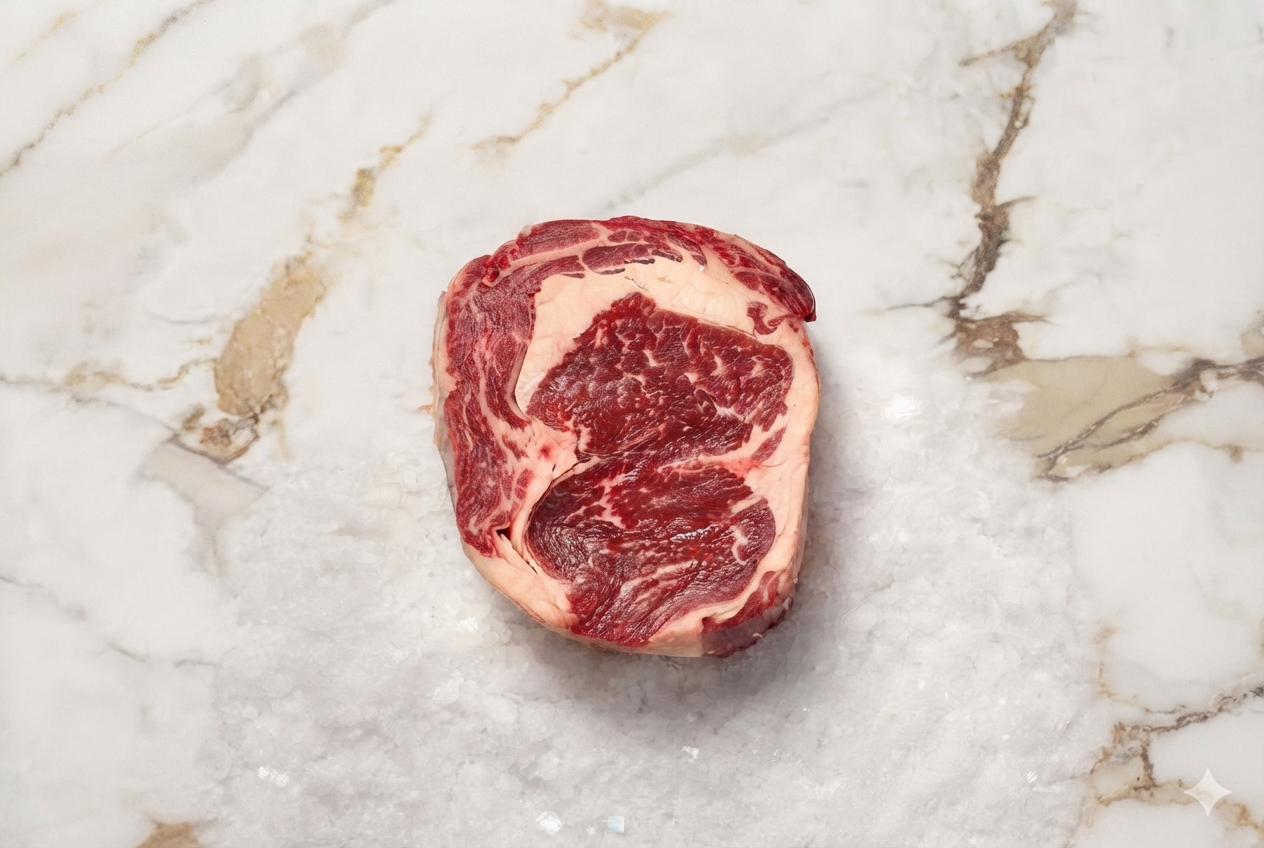
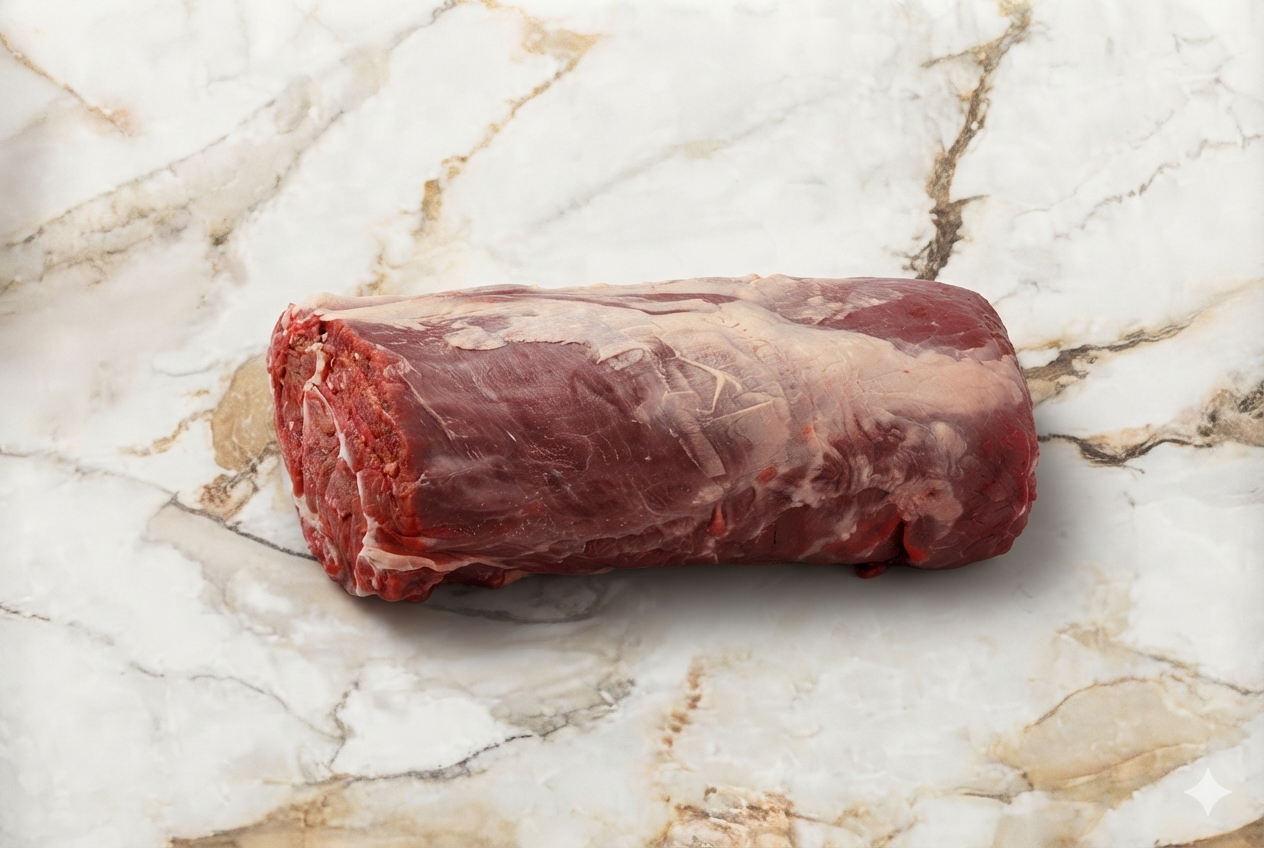
cargados productos con precio, modificamos unidad kilo para productoo

diff --git a/js/app.js b/js/app.js
@@ -49,6 +49,50 @@
       return productos.filter((p) => normalizar(p.nombre).includes(f));
     }
   
+    // Obtiene la cantidad en el carrito de un producto por id
+    function cantidadEnCarrito(id) {
+      const item = Cart.obtenerItems().find((i) => i.id === id);
+      return item ? item.cantidad : 0;
+    }
+  
+    // Genera el HTML del control de cantidad (botón agregar o selector − N +)
+    function htmlControlCantidad(prod) {
+      const cantidad = cantidadEnCarrito(prod.id);
+  
+      if (cantidad === 0) {
+        return `
+          <button
+            class="btn-primario w-full mt-auto"
+            data-agregar="${prod.id}"
+          >
+            Agregar al carrito
+          </button>
+        `;
+      }
+  
+      return `
+        <div
+          class="w-full mt-auto rounded-lg flex items-center justify-between px-2"
+          style="background-color: var(--color-petroleo); height: 46px;"
+          data-control="${prod.id}"
+        >
+          <button
+            class="flex items-center justify-center w-9 h-9 rounded-md text-white font-bold text-xl"
+            style="background-color: rgba(255,255,255,0.15);"
+            data-restar-tarjeta="${prod.id}"
+            aria-label="Restar unidad"
+          >−</button>
+          <span class="text-white font-bold text-lg" data-cantidad-tarjeta="${prod.id}">${cantidad}</span>
+          <button
+            class="flex items-center justify-center w-9 h-9 rounded-md text-white font-bold text-xl"
+            style="background-color: rgba(255,255,255,0.15);"
+            data-sumar-tarjeta="${prod.id}"
+            aria-label="Sumar unidad"
+          >+</button>
+        </div>
+      `;
+    }
+  
     // Renderizar las tarjetas de producto
     function renderizarCatalogo() {
       const contenedor = document.getElementById('catalogo');
@@ -97,19 +141,16 @@
               </p>
             </div>
   
-            <button
-              class="btn-primario w-full mt-auto"
-              data-agregar="${prod.id}"
-            >
-              Agregar al carrito
-            </button>
+            <div data-zona-control="${prod.id}">
+              ${htmlControlCantidad(prod)}
+            </div>
           </div>
         `;
   
         contenedor.appendChild(card);
       });
   
-      // Delegación de eventos para botones "Agregar"
+      // Delegación de eventos
       contenedor.querySelectorAll('[data-agregar]').forEach((btn) => {
         btn.addEventListener('click', () => {
           const id = btn.getAttribute('data-agregar');
@@ -118,21 +159,93 @@
             Cart.agregar(producto);
             actualizarContador();
             renderizarCarrito();
-            mostrarFeedbackBoton(btn);
+            actualizarControlTarjeta(id);
           }
+        });
+      });
+  
+      contenedor.querySelectorAll('[data-sumar-tarjeta]').forEach((btn) => {
+        btn.addEventListener('click', () => {
+          const id = btn.getAttribute('data-sumar-tarjeta');
+          const producto = productos.find((p) => p.id === id);
+          if (producto) {
+            Cart.agregar(producto);
+            actualizarContador();
+            renderizarCarrito();
+            actualizarControlTarjeta(id);
+          }
+        });
+      });
+  
+      contenedor.querySelectorAll('[data-restar-tarjeta]').forEach((btn) => {
+        btn.addEventListener('click', () => {
+          const id = btn.getAttribute('data-restar-tarjeta');
+          Cart.quitar(id);
+          actualizarContador();
+          renderizarCarrito();
+          actualizarControlTarjeta(id);
         });
       });
     }
   
-    // Feedback breve al agregar
-    function mostrarFeedbackBoton(btn) {
-      const textoOriginal = btn.textContent;
-      btn.textContent = '✓ Agregado';
-      btn.disabled = true;
-      setTimeout(() => {
-        btn.textContent = textoOriginal;
-        btn.disabled = false;
-      }, 900);
+    // Actualiza solo el bloque de control de una tarjeta (sin re-renderizar todo el catálogo)
+    function actualizarControlTarjeta(id) {
+      const zona = document.querySelector(`[data-zona-control="${id}"]`);
+      if (!zona) return;
+      const producto = productos.find((p) => p.id === id);
+      if (!producto) return;
+  
+      zona.innerHTML = htmlControlCantidad(producto);
+  
+      // Re-enganchar listeners del bloque recién creado
+      const btnAgregar = zona.querySelector('[data-agregar]');
+      if (btnAgregar) {
+        btnAgregar.addEventListener('click', () => {
+          const prodId = btnAgregar.getAttribute('data-agregar');
+          const prod = productos.find((p) => p.id === prodId);
+          if (prod) {
+            Cart.agregar(prod);
+            actualizarContador();
+            renderizarCarrito();
+            actualizarControlTarjeta(prodId);
+          }
+        });
+      }
+  
+      const btnSumar = zona.querySelector('[data-sumar-tarjeta]');
+      if (btnSumar) {
+        btnSumar.addEventListener('click', () => {
+          const prodId = btnSumar.getAttribute('data-sumar-tarjeta');
+          const prod = productos.find((p) => p.id === prodId);
+          if (prod) {
+            Cart.agregar(prod);
+            actualizarContador();
+            renderizarCarrito();
+            actualizarControlTarjeta(prodId);
+          }
+        });
+      }
+  
+      const btnRestar = zona.querySelector('[data-restar-tarjeta]');
+      if (btnRestar) {
+        btnRestar.addEventListener('click', () => {
+          const prodId = btnRestar.getAttribute('data-restar-tarjeta');
+          Cart.quitar(prodId);
+          actualizarContador();
+          renderizarCarrito();
+          actualizarControlTarjeta(prodId);
+        });
+      }
+    }
+  
+    // Refresca todos los controles de tarjeta (se llama cuando el carrito cambia desde el modal)
+    function actualizarTodosLosControles() {
+      productos.forEach((p) => {
+        const zona = document.querySelector(`[data-zona-control="${p.id}"]`);
+        if (zona) {
+          actualizarControlTarjeta(p.id);
+        }
+      });
     }
   
     // Actualizar contador del header
@@ -197,7 +310,6 @@
         contenedor.appendChild(fila);
       });
   
-      // Listeners
       contenedor.querySelectorAll('[data-sumar]').forEach((btn) => {
         btn.addEventListener('click', () => {
           const id = btn.getAttribute('data-sumar');
@@ -206,6 +318,7 @@
             Cart.agregar(item);
             actualizarContador();
             renderizarCarrito();
+            actualizarControlTarjeta(id);
           }
         });
       });
@@ -216,6 +329,7 @@
           Cart.quitar(id);
           actualizarContador();
           renderizarCarrito();
+          actualizarControlTarjeta(id);
         });
       });
   
@@ -225,6 +339,7 @@
           Cart.eliminar(id);
           actualizarContador();
           renderizarCarrito();
+          actualizarControlTarjeta(id);
         });
       });
   
@@ -306,11 +421,11 @@
             Cart.vaciar();
             actualizarContador();
             renderizarCarrito();
+            actualizarTodosLosControles();
           }
         });
       }
   
-      // Buscador: filtra en vivo
       const inputBuscador = document.getElementById('input-buscador');
       if (inputBuscador) {
         inputBuscador.addEventListener('input', (e) => {
